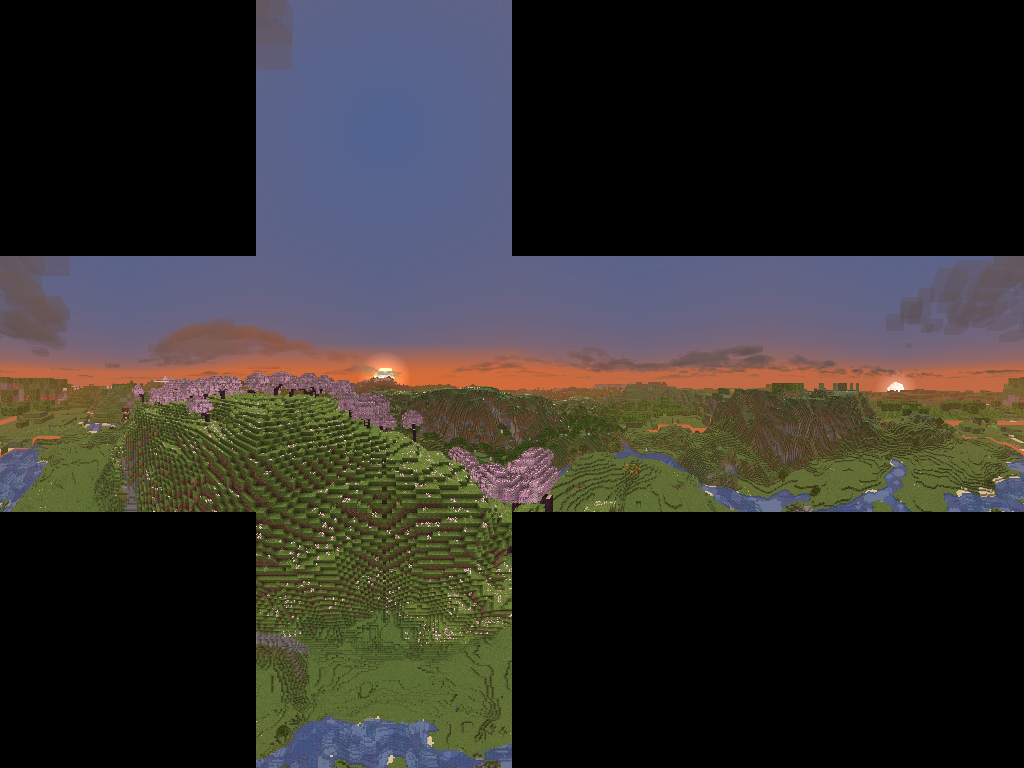
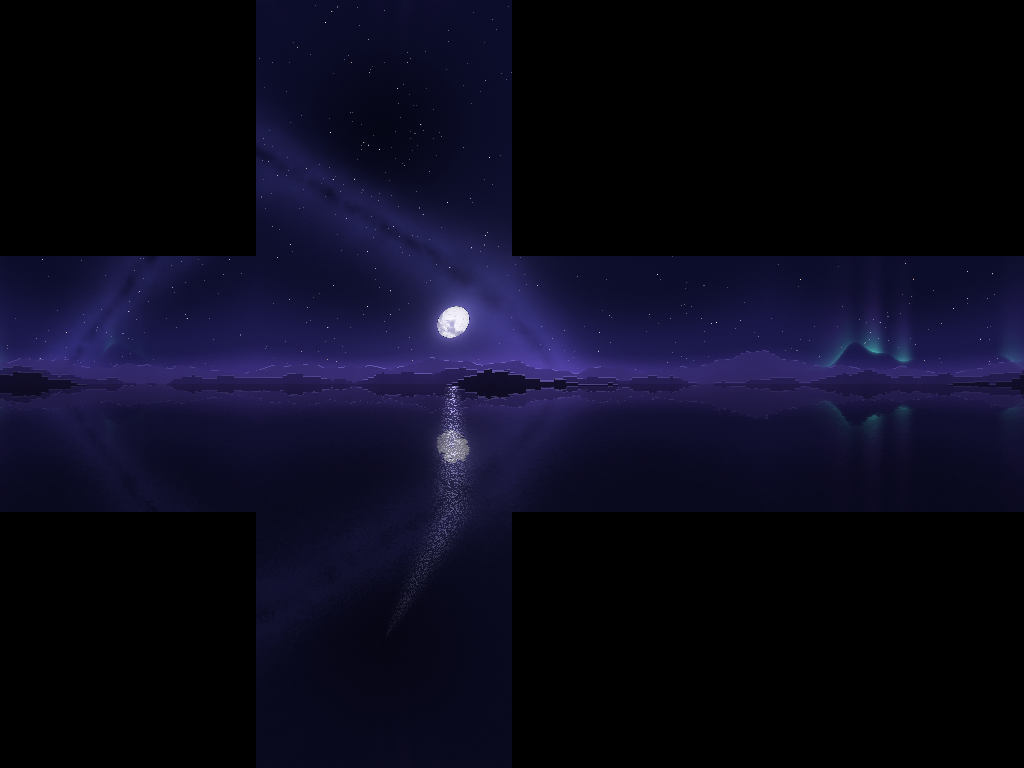
Panorama : retour au rendu procédural de nuit (captures archivées), étalonnage LUNA, garde-fou de premier plan pour game-input

diff --git a/MODS.md b/MODS.md
@@ -3,90 +3,88 @@
 Versions de Minecraft : 26.2, 26.1.2. Le détail ci-dessous est celui de 26.2 ; les autres versions ont les mêmes mods dès qu'ils existent pour elles.
 
 **LUNA** : 80 mods, 20 packs de ressources, 6 shaders.  
-**LUNA Lite** : 62 mods (colonne Lite), sans packs de ressources ni shaders.  
-**Serveur** : 38 mods (colonne Serveur).
 
 ## Mods
 
 | Mod | Version | Rôle | Lite | Serveur |
 |---|---|---|---|---|
 | [3D Skin Layers](https://modrinth.com/mod/3dskinlayers) | 1.11.3 | Couches de skin en 3D |  |  |
-| [Alternate Current](https://modrinth.com/mod/alternate-current) | mc26.2-1.9.0 | Redstone bien plus rapide | ✓ | ✓ |
+| [Alternate Current](https://modrinth.com/mod/alternate-current) | mc26.2-1.9.0 | Redstone bien plus rapide | ✓ |  |
 | [AmbientSounds](https://modrinth.com/mod/ambientsounds) | 6.3.6 | Ambiances sonores selon le biome, l'heure et la météo |  |  |
-| [AppleSkin](https://modrinth.com/mod/appleskin) | 3.0.10+mc26.2 | Saturation et valeur nutritive de la nourriture | ✓ | ✓ |
-| [Architectury API](https://modrinth.com/mod/architectury-api) | 21.1.11+fabric | Dépendance | ✓ | ✓ |
+| [AppleSkin](https://modrinth.com/mod/appleskin) | 3.0.10+mc26.2 | Saturation et valeur nutritive de la nourriture | ✓ |  |
+| [Architectury API](https://modrinth.com/mod/architectury-api) | 21.1.11+fabric | Dépendance |  |  |
 | [BadOptimizations](https://modrinth.com/mod/badoptimizations) | 2.4.1 | Micro-optimisations client (lightmap, ciel, etc.) | ✓ |  |
-| [Balm](https://modrinth.com/mod/balm) | 26.2.0.9+fabric-26.2 | Dépendance | ✓ | ✓ |
+| [Balm](https://modrinth.com/mod/balm) | 26.2.0.9+fabric-26.2 | Dépendance |  |  |
 | [Better Block Entities](https://modrinth.com/mod/better-block-entities) | 1.3.7+mc26.2 | Coffres, panneaux, lits… rendus comme des blocs (gros gain FPS) | ✓ |  |
 | [Better Clouds](https://modrinth.com/mod/better-clouds) | 1.14.4 | Nuages volumétriques dans le style vanilla |  |  |
-| [Concurrent Chunk Management Engine (Fabric)](https://modrinth.com/mod/c2me-fabric) | 0.4.1-beta.1.0+26.2 | Génération/chargement des chunks multithreadé | ✓ | ✓ |
-| [Chunky](https://modrinth.com/mod/chunky) | 1.5.3 | Prégénère le monde pour que Voxy affiche tout l'horizon | ✓ | ✓ |
-| [Client Sort](https://modrinth.com/mod/clientsort) | 3.103.4+26.2 | Tri de l'inventaire et des coffres (clic molette) | ✓ | ✓ |
-| [Cloth Config API](https://modrinth.com/mod/cloth-config) | 26.2.155+fabric | Dépendance | ✓ | ✓ |
-| [Clumps](https://modrinth.com/mod/clumps) | 26.2.1 | Regroupe les orbes d'XP (moins de lag) | ✓ | ✓ |
+| [Concurrent Chunk Management Engine (Fabric)](https://modrinth.com/mod/c2me-fabric) | 0.4.1-beta.1.0+26.2 | Génération/chargement des chunks multithreadé | ✓ |  |
+| [Chunky](https://modrinth.com/mod/chunky) | 1.5.3 | Prégénère le monde pour que Voxy affiche tout l'horizon | ✓ |  |
+| [Client Sort](https://modrinth.com/mod/clientsort) | 3.103.4+26.2 | Tri de l'inventaire et des coffres (clic molette) | ✓ |  |
+| [Cloth Config API](https://modrinth.com/mod/cloth-config) | 26.2.155+fabric | Dépendance |  |  |
+| [Clumps](https://modrinth.com/mod/clumps) | 26.2.1 | Regroupe les orbes d'XP (moins de lag) | ✓ |  |
 | [Continuity](https://modrinth.com/mod/continuity) | 3.0.1+26.2 | Textures connectées (contours de NewGlowingOres, Better Leaves…) |  |  |
-| [CreativeCore](https://modrinth.com/mod/creativecore) | 2.14.16 | Dépendance |  | ✓ |
+| [CreativeCore](https://modrinth.com/mod/creativecore) | 2.14.16 | Dépendance |  |  |
 | [Cubes Without Borders](https://modrinth.com/mod/cubes-without-borders) | 4.1.0+26.2 | Plein écran fenêtré sans bordure (alt-tab instantané) | ✓ |  |
-| [Day Counter (Original)](https://modrinth.com/mod/daycounter) | 4+mod | Compteur de jours au-dessus de la barre d'objets (les coordonnées sont sous la minimap) | ✓ | ✓ |
-| [Debugify](https://modrinth.com/mod/debugify) | 26.2.0.1 | Corrige des dizaines de bugs vanilla | ✓ | ✓ |
+| [Day Counter (Original)](https://modrinth.com/mod/daycounter) | 4+mod | Compteur de jours au-dessus de la barre d'objets (les coordonnées sont sous la minimap) | ✓ |  |
+| [Debugify](https://modrinth.com/mod/debugify) | 26.2.0.1 | Corrige des dizaines de bugs vanilla | ✓ |  |
 | [Default Options](https://modrinth.com/mod/default-options) | 26.2.0.3+fabric-26.2 | Applique les réglages LUNA au premier lancement sans écraser les tiens ensuite | ✓ |  |
 | [Dynamic FPS](https://modrinth.com/mod/dynamic-fps) | 3.11.9 | Baisse les FPS quand le jeu est en arrière-plan | ✓ |  |
 | [[EMF] Entity Model Features](https://modrinth.com/mod/entity-model-features) | 3.3.11-fabric-26.2 | Modèles d'entités des packs (nécessaire à Fresh Animations) |  |  |
 | [Entity Culling](https://modrinth.com/mod/entityculling) | 1.11.2 | Ne rend pas les entités cachées derrière des murs | ✓ |  |
 | [[ETF] Entity Texture Features](https://modrinth.com/mod/entitytexturefeatures) | 7.2.5-fabric-26.2 | Textures d'entités émissives/aléatoires (nécessaire à Fresh Animations) |  |  |
-| [Fabric API](https://modrinth.com/mod/fabric-api) | 0.161.0+26.2 | Bibliothèque de base Fabric | ✓ | ✓ |
-| [Fabric Language Kotlin](https://modrinth.com/mod/fabric-language-kotlin) | 1.14.1+kotlin.2.4.20 | Dépendance | ✓ | ✓ |
+| [Fabric API](https://modrinth.com/mod/fabric-api) | 0.161.0+26.2 | Bibliothèque de base Fabric | ✓ |  |
+| [Fabric Language Kotlin](https://modrinth.com/mod/fabric-language-kotlin) | 1.14.1+kotlin.2.4.20 | Dépendance |  |  |
 | [Falling Leaves](https://modrinth.com/mod/fallingleaves) | 2.0.7+26.1 | Feuilles qui tombent des arbres |  |  |
 | [Fast IP Ping](https://modrinth.com/mod/fast-ip-ping) | v1.0.12-mc26.2 | Liste des serveurs qui ping instantanément | ✓ |  |
 | [FastQuit](https://modrinth.com/mod/fastquit) | 3.1.5+mc26.2 | Quitter un monde sans attendre la sauvegarde | ✓ |  |
-| [FerriteCore](https://modrinth.com/mod/ferrite-core) | 9.0.0-fabric | Réduit l'usage de la RAM | ✓ | ✓ |
+| [FerriteCore](https://modrinth.com/mod/ferrite-core) | 9.0.0-fabric | Réduit l'usage de la RAM | ✓ |  |
 | [Flashback](https://modrinth.com/mod/flashback) | 0.43.6 | Enregistre et monte des vidéos cinématiques (compatible Voxy) |  |  |
 | [kennytvs-epic-force-close-loading-screen-mod-for-fabric](https://modrinth.com/mod/forcecloseworldloadingscreen) | 2.3.6 | Ferme l'écran de chargement du monde dès que possible | ✓ |  |
-| [Forge Config API Port](https://modrinth.com/mod/forge-config-api-port) | 26.2.1 | Dépendance | ✓ | ✓ |
+| [Forge Config API Port](https://modrinth.com/mod/forge-config-api-port) | 26.2.1 | Dépendance |  |  |
 | [Freecam](https://modrinth.com/mod/freecam) | 1.4.1 | Caméra libre pour explorer ou préparer une capture | ✓ |  |
-| [Fzzy Config](https://modrinth.com/mod/fzzy-config) | 0.7.7+26.2 | Dépendance | ✓ | ✓ |
+| [Fzzy Config](https://modrinth.com/mod/fzzy-config) | 0.7.7+26.2 | Dépendance |  |  |
 | [Gnetum](https://modrinth.com/mod/gnetum) | 4.6.3+26.2-fabric | Répartit le rendu du HUD sur plusieurs images (minimap, Jade…) | ✓ |  |
 | [ImmediatelyFast](https://modrinth.com/mod/immediatelyfast) | 1.16.5+26.2-fabric | Accélère le rendu immédiat (HUD, texte, entités) | ✓ |  |
 | [Iris Shaders](https://modrinth.com/mod/iris) | 1.11.2+26.2-fabric | Shaders (seuls les packs compatibles Voxy rendent les LOD) |  |  |
 | [Ixeris](https://modrinth.com/mod/ixeris) | 4.6.8+26.2-fabric | Entrées clavier/souris lues sur un thread dédié (moins de micro-saccades) | ✓ |  |
-| [Jade 🔍](https://modrinth.com/mod/jade) | 26.2.11+fabric | Infos sur le bloc ou l'entité visée | ✓ | ✓ |
-| [Krypton](https://modrinth.com/mod/krypton) | 0.3.1 | Optimise la pile réseau | ✓ | ✓ |
-| [Ksyxis](https://modrinth.com/mod/ksyxis) | 1.4.5 | Chargement des mondes plus rapide | ✓ | ✓ |
+| [Jade 🔍](https://modrinth.com/mod/jade) | 26.2.11+fabric | Infos sur le bloc ou l'entité visée | ✓ |  |
+| [Krypton](https://modrinth.com/mod/krypton) | 0.3.1 | Optimise la pile réseau | ✓ |  |
+| [Ksyxis](https://modrinth.com/mod/ksyxis) | 1.4.5 | Chargement des mondes plus rapide | ✓ |  |
 | [LambDynamicLights - Dynamic Lights](https://modrinth.com/mod/lambdynamiclights) | 4.12.4+26.2 | Lumières dynamiques (torche en main, entités en feu…) |  |  |
 | [lazy-language-loader](https://modrinth.com/mod/lazy-language-loader) | 0.5.1 | Changement de langue instantané | ✓ |  |
-| [LibJF](https://modrinth.com/mod/libjf) | 26.2.2 | Dépendance |  | ✓ |
-| [Lithium](https://modrinth.com/mod/lithium) | mc26.2-0.25.3-fabric | Optimise la logique du jeu (IA, physique, ticks) | ✓ | ✓ |
-| [Graves](https://modrinth.com/mod/ly-graves) | 3.0.1+mod | Une tombe garde tes objets quand tu meurs | ✓ | ✓ |
-| [ModernFix-mVUS](https://modrinth.com/mod/modernfix-mvus) | 5.27.19-build.2 | Démarrage plus rapide, moins de RAM, dizaines de correctifs (ModernFix) | ✓ | ✓ |
+| [LibJF](https://modrinth.com/mod/libjf) | 26.2.2 | Dépendance |  |  |
+| [Lithium](https://modrinth.com/mod/lithium) | mc26.2-0.25.3-fabric | Optimise la logique du jeu (IA, physique, ticks) | ✓ |  |
+| [Graves](https://modrinth.com/mod/ly-graves) | 3.0.1+mod | Une tombe garde tes objets quand tu meurs | ✓ |  |
+| [ModernFix-mVUS](https://modrinth.com/mod/modernfix-mvus) | 5.27.19-build.2 | Démarrage plus rapide, moins de RAM, dizaines de correctifs (ModernFix) | ✓ |  |
 | [Mod Menu](https://modrinth.com/mod/modmenu) | 20.0.3 | Liste et configuration des mods | ✓ |  |
 | [More Culling](https://modrinth.com/mod/moreculling) | 1.8.1 | Culling supplémentaire (feuilles, blocs, cadres…) | ✓ |  |
 | [Mouse Tweaks](https://modrinth.com/mod/mouse-tweaks) | 26.2-2.31-fabric | Gestion de l'inventaire à la souris (glisser, molette) | ✓ |  |
 | [Nvidium](https://modrinth.com/mod/nvidium) | 0.4.4-beta6-26.2 | Rendu ultra-rapide via mesh shaders sur cartes NVIDIA (s'éteint tout seul ailleurs) | ✓ |  |
-| [Packet Fixer](https://modrinth.com/mod/packet-fixer) | 3.3.6 | Corrige les déconnexions et limites réseau | ✓ | ✓ |
+| [Packet Fixer](https://modrinth.com/mod/packet-fixer) | 3.3.6 | Corrige les déconnexions et limites réseau | ✓ |  |
 | [Particle Core](https://modrinth.com/mod/particle-core) | 0.3.3+26.2 | Culling et rendu optimisé des particules | ✓ |  |
 | [Particle Rain](https://modrinth.com/mod/particle-rain) | v4.0.1+26.2-fabric | Pluie, neige et brouillard en particules |  |  |
-| [Text Placeholder API](https://modrinth.com/mod/placeholder-api) | 3.1.0-beta.1+26.2 | Dépendance | ✓ | ✓ |
+| [Text Placeholder API](https://modrinth.com/mod/placeholder-api) | 3.1.0-beta.1+26.2 | Dépendance |  |  |
 | [Presence Footsteps](https://modrinth.com/mod/presence-footsteps) | 1.13.3+26.2 | Bruits de pas réalistes selon la surface |  |  |
 | [Reese's Sodium Options](https://modrinth.com/mod/reeses-sodium-options) | mc26.2-2.2.3+fabric | Menu d'options Sodium plus lisible | ✓ |  |
-| [Roughly Enough Items (REI)](https://modrinth.com/mod/rei) | 26.2.820+fabric | Recettes et usages de chaque objet (R / U sur un objet) | ✓ | ✓ |
-| [Resourceful Config](https://modrinth.com/mod/resourceful-config) | 5.0.0 | Dépendance | ✓ | ✓ |
-| [Respackopts](https://modrinth.com/mod/respackopts) | 26.2.2 | Options des packs (Enchantment Outlines, Fresh Food) |  | ✓ |
+| [Roughly Enough Items (REI)](https://modrinth.com/mod/rei) | 26.2.820+fabric | Recettes et usages de chaque objet (R / U sur un objet) | ✓ |  |
+| [Resourceful Config](https://modrinth.com/mod/resourceful-config) | 5.0.0 | Dépendance |  |  |
+| [Respackopts](https://modrinth.com/mod/respackopts) | 26.2.2 | Options des packs (Enchantment Outlines, Fresh Food) |  |  |
 | [Raise Sound Limit Simplified](https://modrinth.com/mod/rsls) | 1.3.0 | Moteur de son optimisé, plus de sources sonores | ✓ |  |
-| [ScalableLux](https://modrinth.com/mod/scalablelux) | 0.2.1+fabric.2b08348 | Moteur de lumière parallélisé | ✓ | ✓ |
+| [ScalableLux](https://modrinth.com/mod/scalablelux) | 0.2.1+fabric.2b08348 | Moteur de lumière parallélisé | ✓ |  |
 | [Shoulder Surfing Reloaded](https://modrinth.com/mod/shoulder-surfing-reloaded) | 26.2-5.2.0+fabric | Troisième personne par-dessus l'épaule | ✓ |  |
-| [Simple Voice Chat](https://modrinth.com/mod/simple-voice-chat) | fabric-2.6.24+26.2 | Chat vocal de proximité (le serveur doit l'avoir aussi) | ✓ | ✓ |
+| [Simple Voice Chat](https://modrinth.com/mod/simple-voice-chat) | fabric-2.6.24+26.2 | Chat vocal de proximité (le serveur doit l'avoir aussi) | ✓ |  |
 | [Sodium](https://modrinth.com/mod/sodium) | mc26.2-0.9.1-fabric | Moteur de rendu réécrit (gros gain de FPS) | ✓ |  |
 | [Sodium Extra](https://modrinth.com/mod/sodium-extra) | mc26.2-0.9.3+fabric | Réglages graphiques supplémentaires pour Sodium | ✓ |  |
-| [Sound Physics Remastered](https://modrinth.com/mod/sound-physics-remastered) | fabric-1.5.1+26.2 | Échos, réverbération et sons étouffés réalistes |  | ✓ |
-| [Structure Layout Optimizer](https://modrinth.com/mod/structure-layout-optimizer) | 1.1.4+26.1-fabric | Génération des structures (villages, donjons) accélérée | ✓ | ✓ |
-| [Subtle Effects](https://modrinth.com/mod/subtle-effects) | 1.15.0 | Plein de petits détails d'ambiance (particules, sons) |  | ✓ |
-| [Very Many Players (Fabric)](https://modrinth.com/mod/vmp-fabric) | 0.2.0+beta.7.236+26.2 | Suivi des entités et chargement des chunks optimisés côté serveur (solo inclus) | ✓ | ✓ |
+| [Sound Physics Remastered](https://modrinth.com/mod/sound-physics-remastered) | fabric-1.5.1+26.2 | Échos, réverbération et sons étouffés réalistes |  |  |
+| [Structure Layout Optimizer](https://modrinth.com/mod/structure-layout-optimizer) | 1.1.4+26.1-fabric | Génération des structures (villages, donjons) accélérée | ✓ |  |
+| [Subtle Effects](https://modrinth.com/mod/subtle-effects) | 1.15.0 | Plein de petits détails d'ambiance (particules, sons) |  |  |
+| [Very Many Players (Fabric)](https://modrinth.com/mod/vmp-fabric) | 0.2.0+beta.7.236+26.2 | Suivi des entités et chargement des chunks optimisés côté serveur (solo inclus) | ✓ |  |
 | [voxy](https://modrinth.com/mod/voxy) | 0.2.19-beta | LOD : rendu de terrain à très longue distance | ✓ |  |
 | [Wakes](https://modrinth.com/mod/wakes) | 0.7.1+26.2 | Sillages et éclaboussures sur l'eau |  |  |
 | [XaeroPlus](https://modrinth.com/mod/xaeroplus) | 2.36.5+fabric-26.2 | Fonctions extra pour les cartes Xaero | ✓ |  |
-| [Xaero's Minimap](https://modrinth.com/mod/xaeros-minimap) | fabric-26.2-26.6.0 | Minimap | ✓ | ✓ |
-| [Xaero's World Map](https://modrinth.com/mod/xaeros-world-map) | fabric-26.2-1.47.0 | Carte du monde (touche M) | ✓ | ✓ |
-| [YetAnotherConfigLib (YACL)](https://modrinth.com/mod/yacl) | 3.9.7+26.2-fabric | Dépendance | ✓ | ✓ |
+| [Xaero's Minimap](https://modrinth.com/mod/xaeros-minimap) | fabric-26.2-26.6.0 | Minimap | ✓ |  |
+| [Xaero's World Map](https://modrinth.com/mod/xaeros-world-map) | fabric-26.2-1.47.0 | Carte du monde (touche M) | ✓ |  |
+| [YetAnotherConfigLib (YACL)](https://modrinth.com/mod/yacl) | 3.9.7+26.2-fabric | Dépendance |  |  |
 | [Zoomify (Zoom)](https://modrinth.com/mod/zoomify) | 2.16.3+26.2 | Zoom (pratique avec une vue aussi lointaine) | ✓ |  |
 | LUNA UI (maison) | 1.3.0 | Thème visuel : logo, panorama, boutons et menus | ✓ |  |
 | Sona pour Minecraft (maison) | sona-minecraft-1.3.0.jar | Lecteur Sona en jeu (titre en cours, contrôles, /sona) | ✓ |  |
